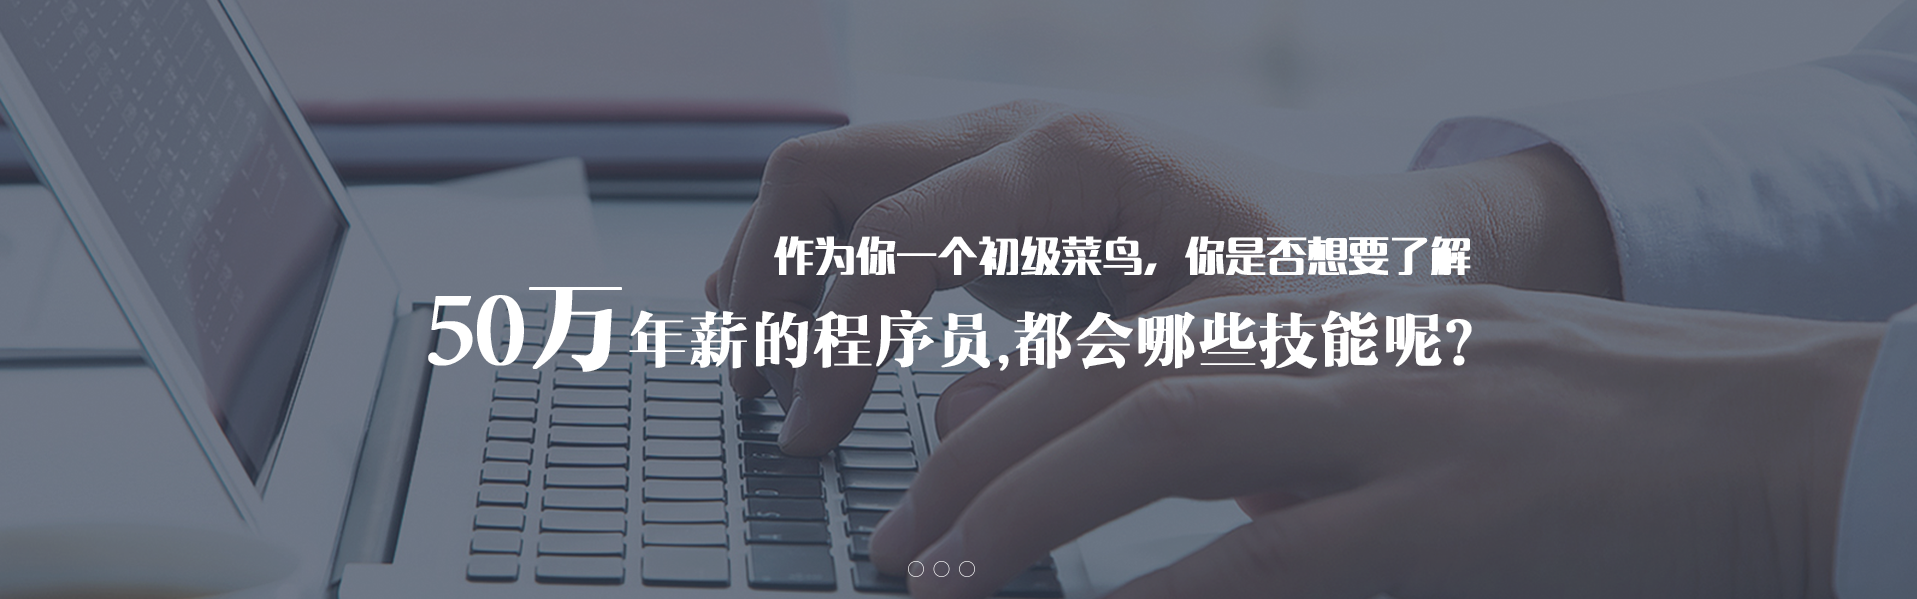
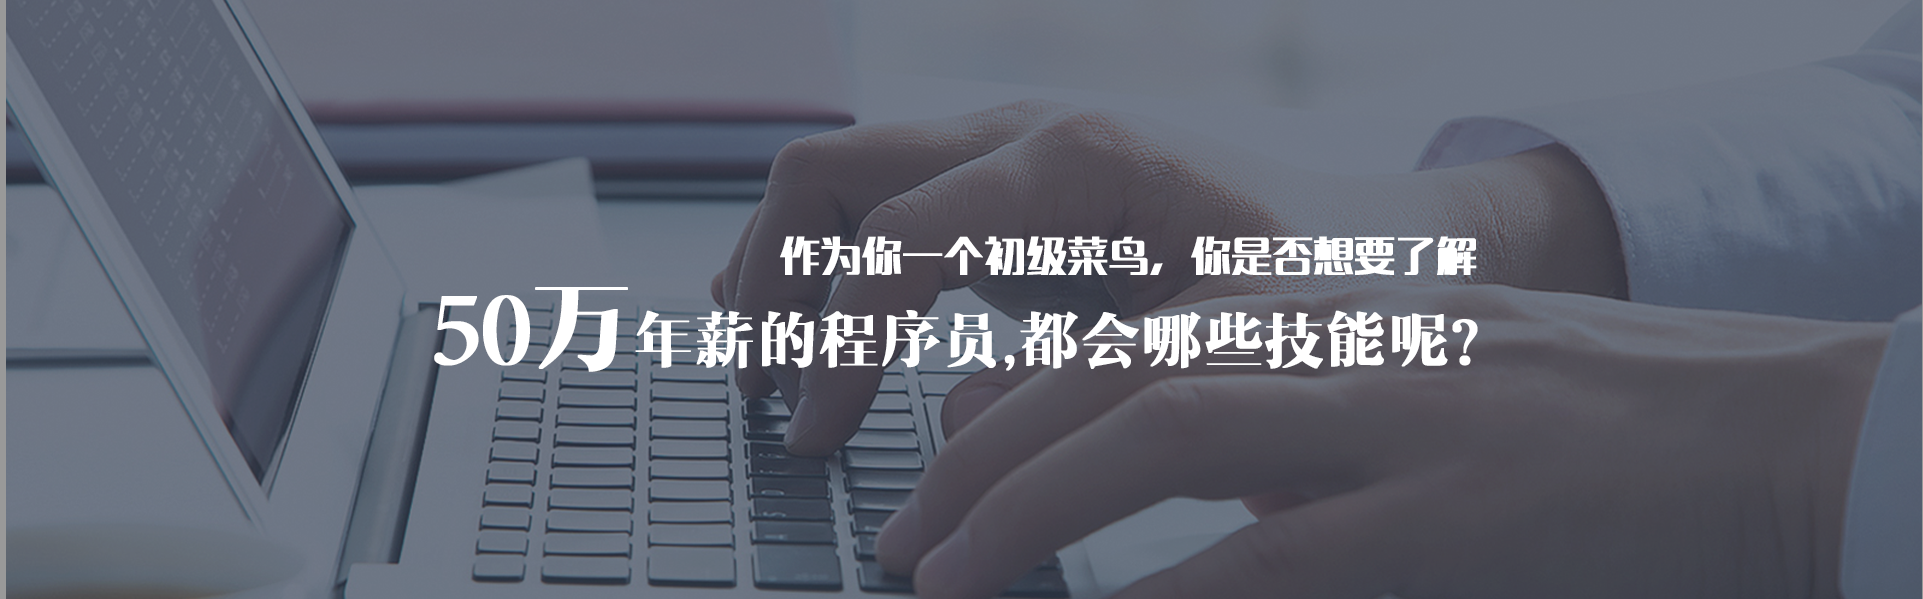
1
1

diff --git a/mytask3/task8/task8-1.html b/mytask3/task8/task8-1.html
@@ -39,16 +39,47 @@
         </div>
     </div>
         <!--3首页背景-->
-    <div class="container-fluid">
-        <div class="row">
-            <div class="row3-1 col-sm-12 col-md-12">
-                <div class="bgimg">
-                    <button type="button" class="row3-button1"><img style="height: 2rem;" src="左边箭头.png"></button>
-                    <button type="button" class="row3-button2"><img style="height: 2rem;" src="右边箭头.png"></button>
+     <div id="carousel-example-generic" class="carousel slide" data-ride="carousel">
+                    <!-- Indicators -->
+                    <ol class="carousel-indicators">
+                        <li data-target="#carousel-example-generic" data-slide-to="0" class="active"></li>
+                        <li data-target="#carousel-example-generic" data-slide-to="1"></li>
+                        <li data-target="#carousel-example-generic" data-slide-to="2"></li>
+                    </ol>
+
+                    <!-- Wrapper for slides -->
+                    <div class="carousel-inner" role="listbox">
+                        <div class="item active">
+                            <img src="首页背景.png" alt="图裂了">
+                            <div class="carousel-caption">
+                                ...
+                            </div>
+                        </div>
+                        <div class="item">
+                            <img src="首页背景.png" alt="图裂了">
+                            <div class="carousel-caption">
+                               ...
+                            </div>
+                        </div>
+                        <div class="item">
+                            <img src="首页背景.png" alt="图裂了">
+                            <div class="carousel-caption">
+                                ...
+                            </div>
+                        </div>
+                    </div>
+
+                    <!-- Controls -->
+                    <a class="left carousel-control" href="#carousel-example-generic" role="button" data-slide="prev">
+                        <span class="glyphicon glyphicon-chevron-left" aria-hidden="true"></span>
+                        <span class="sr-only">Previous</span>
+                    </a>
+                    <a class="right carousel-control" href="#carousel-example-generic" role="button" data-slide="next">
+                        <span class="glyphicon glyphicon-chevron-right" aria-hidden="true"></span>
+                        <span class="sr-only">Next</span>
+                    </a>
                 </div>
-            </div>
-        </div>
-    </div>
+
 
         <!--4高效、规范、人脉-->
     <main>
@@ -184,10 +215,16 @@
                 </button>
             </div>
         </div>
+        <div class="row">
+            <div class="col-sm-12 col-md-12 col-lg-12">
+                <div class="four-shapes"><img src="fourshapes.png"></div>
+            </div>
+        </div>
         <!--10战略合作企业-->
         <div class="row row10-1">
             <div class="col-md-12"><strong>战略合作企业</strong></div>
         </div>
+
         <!--11企业图标-->
         <div class="row row11-main">
             <div class="col-lg-2 col-md-2 col-md-offset-0 col-sm-2 col-lg-offset-0 row11">

diff --git a/mytask3/task8/task8-3.html b/mytask3/task8/task8-3.html
@@ -56,18 +56,18 @@
                 <div class="job-select">
                     <div class="side">方向：</div>
                     <a href="#" class="job-type">全部</a>
-                    <a href="#" class="job-type">前端开发</a>
-                    <a href="#" class="job-type">后端开发</a>
-                    <a href="#" class="job-type">移动开发</a>
-                    <a href="#" class="job-type">整站开发</a>
-                    <a href="#" class="job-type">运营维护</a>
+                    <a href="#web" class="job-type">前端开发</a>
+                    <a href="#java" class="job-type">后端开发</a>
+                    <a href="#mobile" class="job-type">移动开发</a>
+                    <a href="#site-development" class="job-type">整站开发</a>
+                    <a href="#operation" class="job-type">运营维护</a>
                 </div>
             </div>
         </div>
         <!--前端-->
                 <div class="row">
             <div class="col-md-12 col-lg-12">
-                <div class="qianduan-top"><strong>前端开发方向</strong></div>
+                <a name="web"></a><div class="qianduan-top"><strong>前端开发方向</strong></div>
             </div>
         </div>
         <!--前端1-->
@@ -197,7 +197,7 @@
         <!--后端-->
                 <div class="row">
             <div class="col-md-12 col-lg-12">
-                <div class="qianduan-top"><strong>后端开发方向</strong></div>
+                <a name="java"></a> <div class="qianduan-top"><strong>后端开发方向</strong></div>
             </div>
         </div>
         <!--后端1-->
@@ -410,7 +410,7 @@
         <!--运维-->
         <div class="row">
             <div class="col-md-12 col-lg-12">
-            <div class="qianduan-top"><strong>运维方向</strong></div>
+            <a name="mobile"></a><div class="qianduan-top"><strong>移动开发</strong></div>
             </div>
         </div>
         <!--运维1-->
@@ -539,7 +539,7 @@
         <!--运维-->
         <div class="row">
             <div class="col-md-12 col-lg-12">
-            <div class="qianduan-top"><strong>运维方向</strong></div>
+            <a name="site-development"></a> <div class="qianduan-top"><strong>整站开发</strong></div>
             </div>
         </div>
         <!--运维1-->

diff --git a/mytask3/task8/task8.css b/mytask3/task8/task8.css
@@ -122,6 +122,10 @@ html,body {
     background-size: contain;
     padding-bottom: 10%;
 }
+.four-shapes {
+    text-align: center;
+    margin-top: 24px;
+}
 .row3-button1 {
     padding: 0;
     border: 0;
@@ -337,10 +341,25 @@ a {
     background: #29b078;
     color: #FFFFFF !important;
 }
-.row11:hover {
-    box-shadow: 10px 10px 10px #999999;
+.row11-button1:hover {
+    box-shadow: 2px 2px 20px #d6d6d6;
+}
+.row11-button2:hover {
+    box-shadow: 2px 2px 20px #d6d6d6;
+}
+.row11-button3:hover {
+    box-shadow: 2px 2px 20px #d6d6d6;
+}
+.row11-button4:hover {
+    box-shadow: 2px 2px 20px #d6d6d6;
+}
+.row11-button5:hover {
+    box-shadow: 2px 2px 20px #d6d6d6;
 }
 @media screen and (max-width: 767px) {
+    main {
+        margin-top: 85px;
+    }
     .row4-1 {
         width: 120px;
         margin:0 auto 1rem;
@@ -372,6 +391,15 @@ a {
     }
 }
 @media screen and (min-width:768px) and (max-width: 1440px) {
+    main {
+        padding-top: 170px;
+    }
+    .newbutton {
+        margin-right: -35px;
+    }
+    .logo {
+        height:100px !important;
+    }
     .row4-1 {
         width: 160px;
         margin:0 auto 1rem;
@@ -393,6 +421,12 @@ a {
     }
 }
 @media screen and (min-width: 1441px){
+    main {
+        padding-top: 170px;
+    }
+    .logo {
+        height: 100px !important;
+    }
     .newbutton {
         margin-right: -35px;
     }
